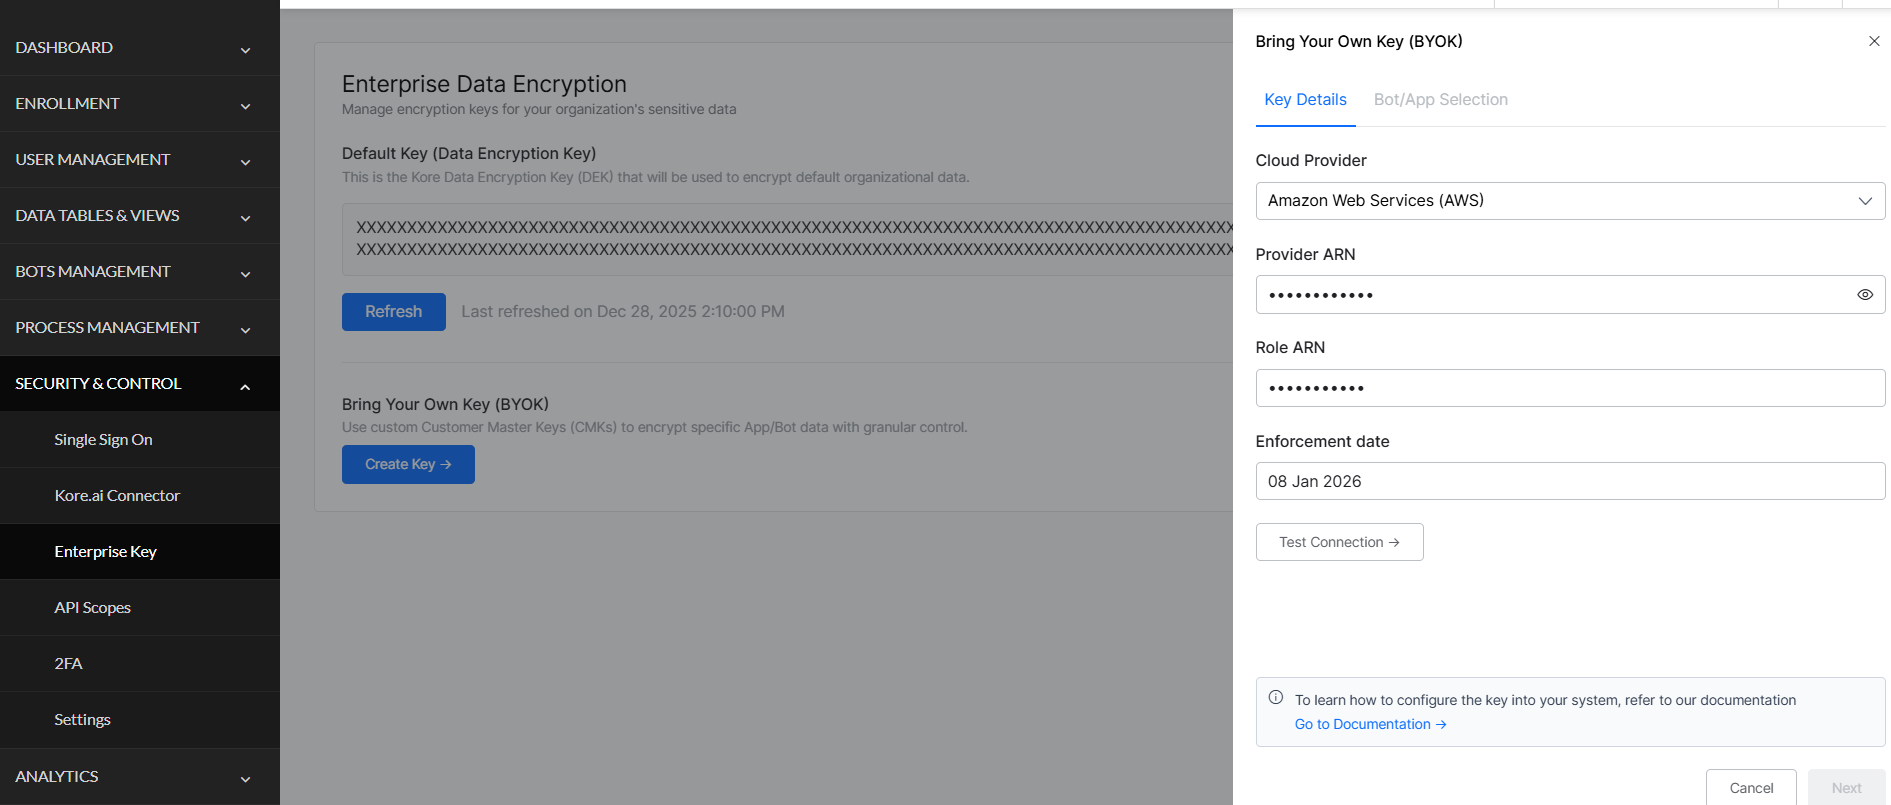
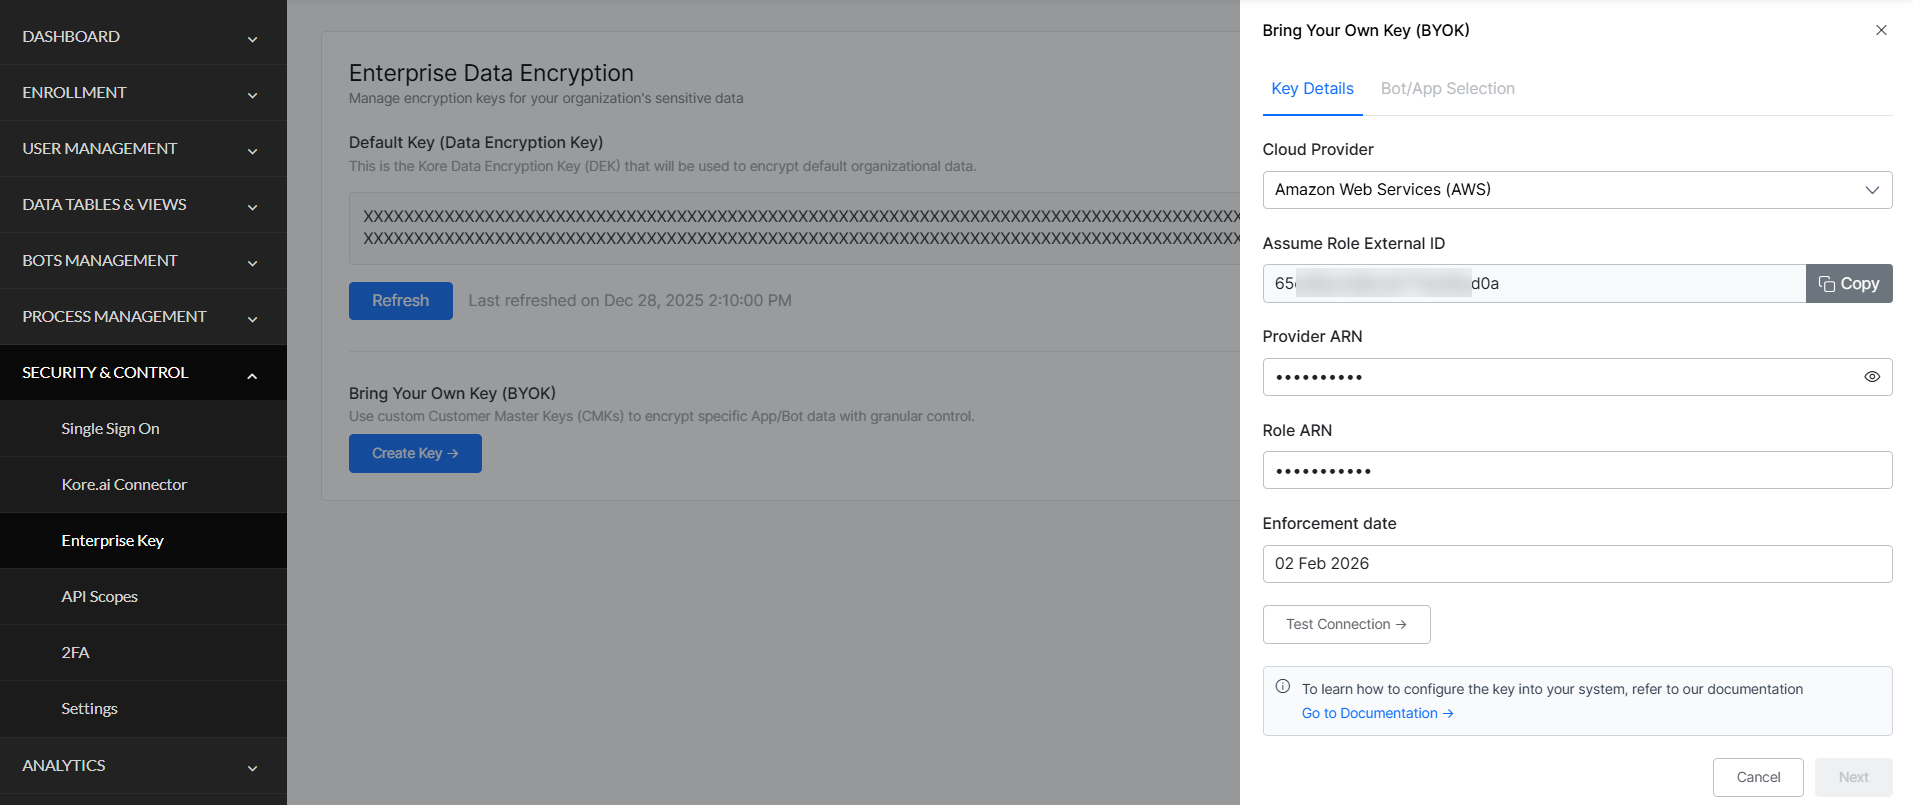
UPDATES

diff --git a/docs/xo/administration/security-and-control/byok-aws-integration.md b/docs/xo/administration/security-and-control/byok-aws-integration.md
@@ -18,7 +18,7 @@ The BYOK integration requires coordination between you (the customer) and the Ko
 | Information        | Description and Purpose | Provided By |
 |--------------------|-------------------------|-------------|
 | **Service Role ARN** | The Amazon Resource Name (ARN) of the IAM role in Kore.ai's AWS account. You add this to your IAM role's trust policy to allow Kore.ai's service to assume your role. <br><br> **Service Role ARN for `platform.kore.ai`:** <br>`arn:aws:iam::358587034707:role/SegBots-Servers-Role` <br><br> **Note:** Contact [Kore.ai Support](https://support.kore.ai/){:target="_blank"} if your SaaS instance differs from `platform.kore.ai`. | Kore.ai |
-| **External ID** | A unique identifier (similar to a password) that Kore.ai uses when assuming your IAM role to prevent unauthorized access. <br><br> Raise a [support ticket](https://support.kore.ai/){:target="_blank"} to obtain the External ID. | Kore.ai |
+| **External ID** | A unique identifier (similar to a password) that Kore.ai uses when assuming your IAM role to prevent unauthorized access. <br><br> External ID is auto-populated within the AI for Service Admin Console. Refer to [Configuration Steps](#configuration-steps).
 | **Role ARN** | The ARN of the IAM role created in your AWS account. Kore.ai assumes this role to access your KMS key. <br><br> **Example:** <br>`arn:aws:iam::<your-account-id>:role/BYOK_Role` <br><br> Share this with Kore.ai after completing the steps in the [Integration Process](#integration-process) section. | Customer |
 | **CMK ARN** | The ARN of your Customer Managed Key (CMK) in AWS KMS. This key is used by Kore.ai to encrypt and decrypt your data. <br><br> **Example:** <br>`arn:aws:kms:<region>:<your-account-id>:key/<key-id>` <br><br> Follow the steps in the [Integration Process](#integration-process) section to create and share this value. | Customer |
 
@@ -230,6 +230,7 @@ You can enable BYOK encryption by configuring it within the AI for Service Admin
 3. Enter AWS Details:
 
     * **Cloud Provider**: Select Amazon Web Services (AWS).
+    * **Assume Role External ID**: Auto-populated.
     * **Provider ARN**: Enter your CMK ARN.
     * **Role ARN**: Enter your Role ARN.
 
@@ -251,7 +252,7 @@ The system will test the connection to your KMS, authentication, and encryption 
 
 ## Validation (Optional)
 
-After the enforcement date, You can verify that encryption is working by using one of the following options:
+After the enforcement date, you can verify that encryption is working by using one of the following options:
 
 ### Option 1: View Analytics
 
